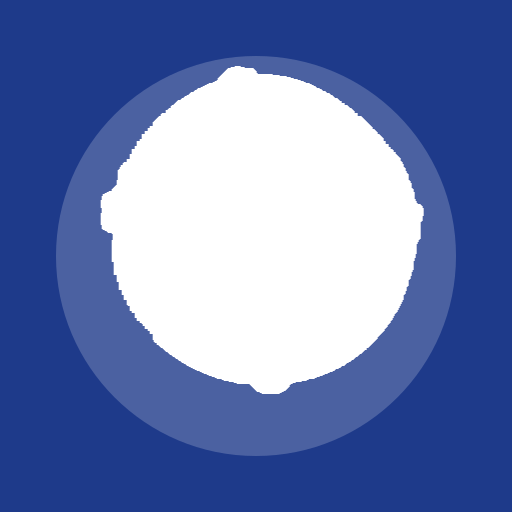
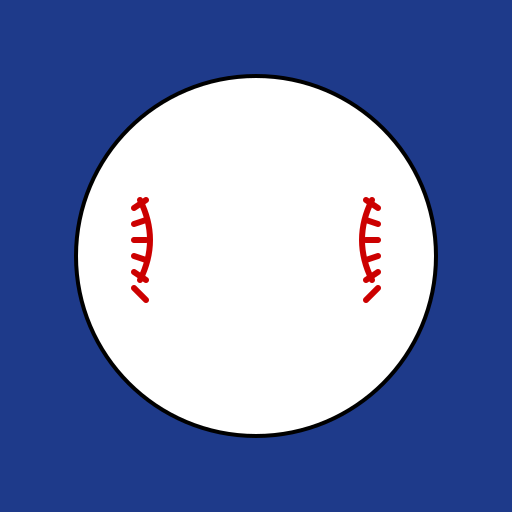
Replace emoji with actual baseball design with red stitching

Changed region(s): [[0.0938, 0.0938, 0.9062, 0.9062], [0.6875, 0.375, 0.75, 0.5938]]

diff --git a/generate-icons.js b/generate-icons.js
@@ -5,8 +5,27 @@ import fs from 'fs';
 const svgContent = `
 <svg width="512" height="512" xmlns="http://www.w3.org/2000/svg">
   <rect width="512" height="512" fill="#1e3a8a"/>
-  <circle cx="256" cy="256" r="200" fill="#ffffff" opacity="0.2"/>
-  <text x="256" y="330" font-family="Arial, sans-serif" font-size="280" font-weight="bold" fill="#ffffff" text-anchor="middle">⚾</text>
+  
+  <!-- Baseball -->
+  <circle cx="256" cy="256" r="180" fill="#ffffff" stroke="#000000" stroke-width="4"/>
+  
+  <!-- Left stitching curve -->
+  <path d="M 140 200 Q 160 240 140 280" fill="none" stroke="#cc0000" stroke-width="6" stroke-linecap="round"/>
+  <line x1="134" y1="208" x2="146" y2="200" stroke="#cc0000" stroke-width="6" stroke-linecap="round"/>
+  <line x1="134" y1="224" x2="146" y2="220" stroke="#cc0000" stroke-width="6" stroke-linecap="round"/>
+  <line x1="134" y1="240" x2="146" y2="240" stroke="#cc0000" stroke-width="6" stroke-linecap="round"/>
+  <line x1="134" y1="256" x2="146" y2="260" stroke="#cc0000" stroke-width="6" stroke-linecap="round"/>
+  <line x1="134" y1="272" x2="146" y2="280" stroke="#cc0000" stroke-width="6" stroke-linecap="round"/>
+  <line x1="134" y1="288" x2="146" y2="300" stroke="#cc0000" stroke-width="6" stroke-linecap="round"/>
+  
+  <!-- Right stitching curve -->
+  <path d="M 372 200 Q 352 240 372 280" fill="none" stroke="#cc0000" stroke-width="6" stroke-linecap="round"/>
+  <line x1="378" y1="208" x2="366" y2="200" stroke="#cc0000" stroke-width="6" stroke-linecap="round"/>
+  <line x1="378" y1="224" x2="366" y2="220" stroke="#cc0000" stroke-width="6" stroke-linecap="round"/>
+  <line x1="378" y1="240" x2="366" y2="240" stroke="#cc0000" stroke-width="6" stroke-linecap="round"/>
+  <line x1="378" y1="256" x2="366" y2="260" stroke="#cc0000" stroke-width="6" stroke-linecap="round"/>
+  <line x1="378" y1="272" x2="366" y2="280" stroke="#cc0000" stroke-width="6" stroke-linecap="round"/>
+  <line x1="378" y1="288" x2="366" y2="300" stroke="#cc0000" stroke-width="6" stroke-linecap="round"/>
 </svg>
 `;
 
